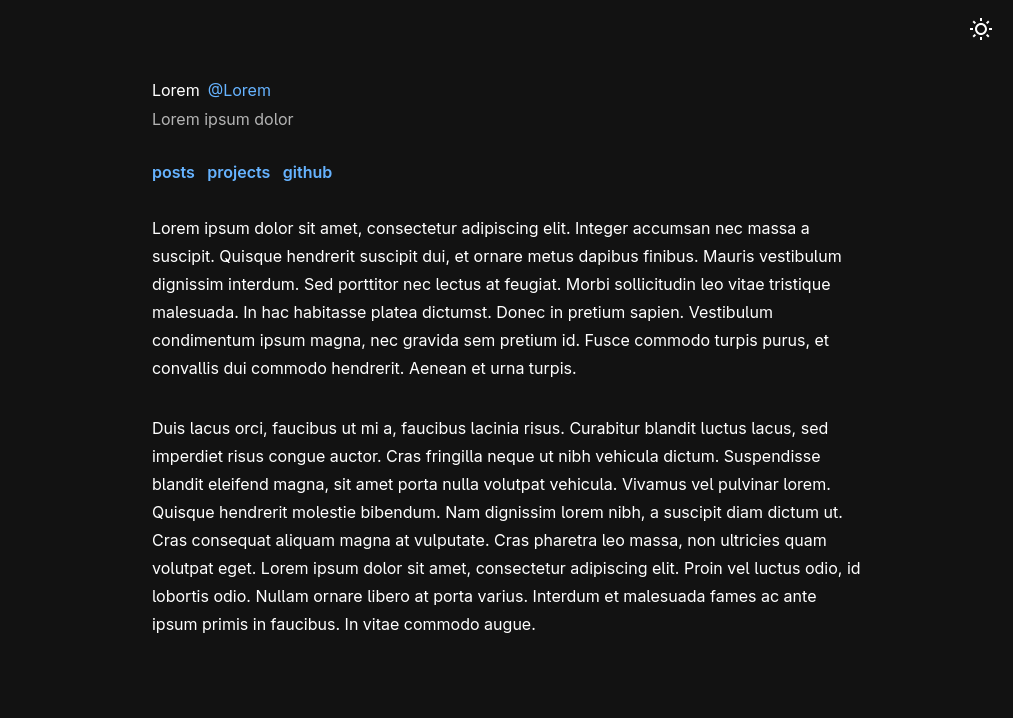
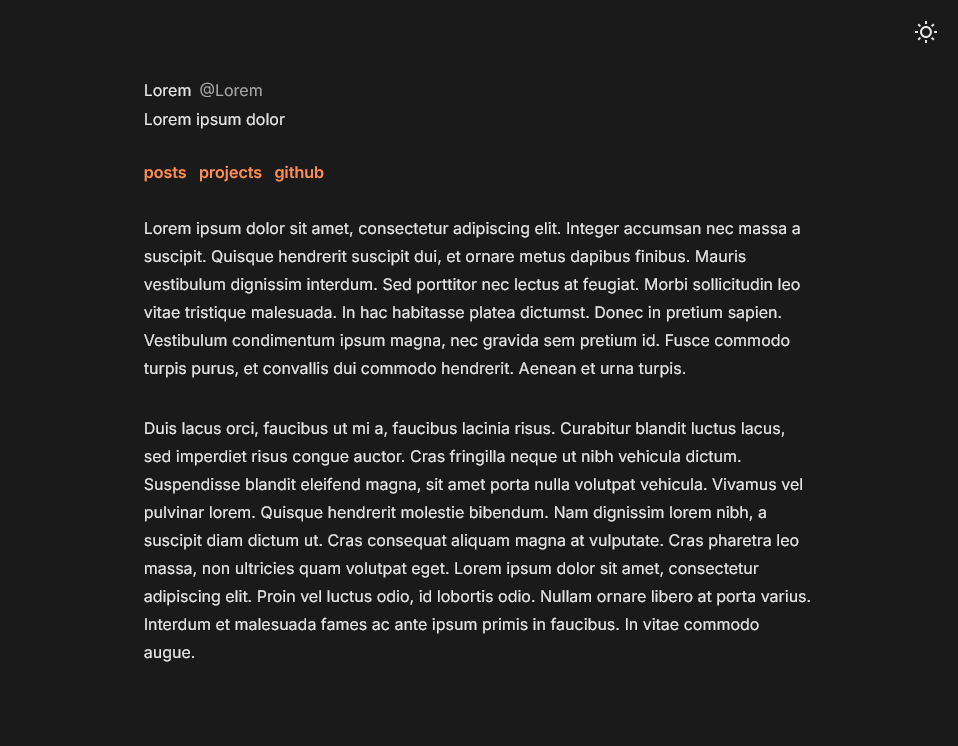
Theme colorscheme contrast improvements
Updated screenshots,
Updated contrast ratio,
Updated config syntax theme from boron to 1337

diff --git a/sass/style.scss b/sass/style.scss
@@ -1,23 +1,23 @@
 @mixin light-theme {
   --foreground: #2a2a2a;
-  --background: #c9bfb0;
-  --background-elevated: #b8ad9c;
+  --background: #fafafa;
+  --background-elevated: #e8e8e8;
   --secondary: #5a5a5a;
   --accent: #964308;
-  --accent-muted: #e8b896;
-  --table-border: #8a7968;
-  --table-row: #d5cbb9;
+  --accent-muted: #f5d4c0;
+  --table-border: #d0d0d0;
+  --table-row: #f5f5f5;
 }
 
 @mixin dark-theme {
-  --foreground: #e8dcc6;
-  --background: #1f1f1c;
-  --background-elevated: #2b2b26;
-  --secondary: #a69b8f;
-  --accent: #ff7b47;
-  --accent-muted: #4a2c1a;
-  --table-border: #5a5347;
-  --table-row: #2a2721;
+  --foreground: #e5e5e5;
+  --background: #1a1a1a;
+  --background-elevated: #2c2c2c;
+  --secondary: #a5a5a5;
+  --accent: #ff8c52;
+  --accent-muted: #3d2410;
+  --table-border: #3a3a3a;
+  --table-row: #202020;
 }
 
 :root.light-mode {

diff --git a/templates/page.html b/templates/page.html
@@ -35,7 +35,7 @@
     <div class="doublespace">
     <h1>{{ page.title }}</h1>
     {% if page.date or page.taxonomies %}
-    <p class="secondary small">
+    <p class="secondary small accent">
         {% if page.date %}{{ page.date | date(format="%-d %b, %Y") }} • {% endif %} {{ page.reading_time }} minute read 
 
         {% set_global sorted_taxonomies = [] %}
